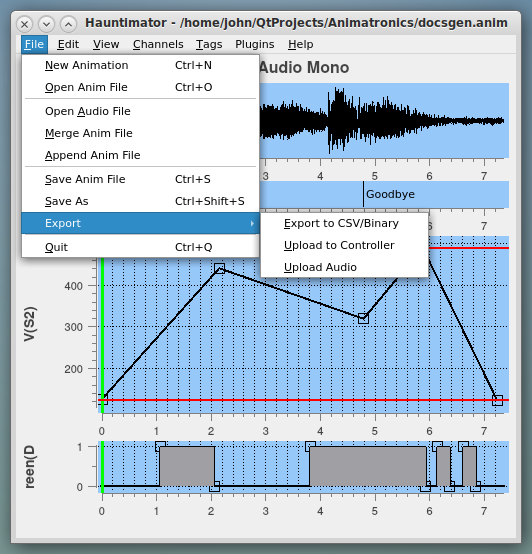
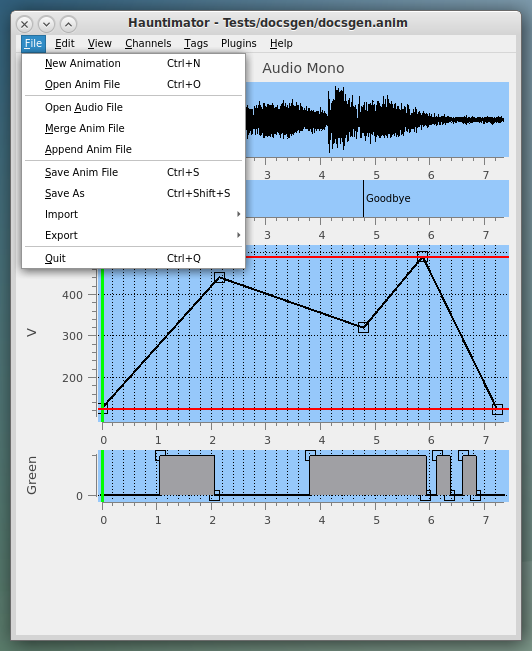
Added CSV import

diff --git a/MainWindow.py b/MainWindow.py
@@ -4056,6 +4056,117 @@ class MainWindow(QMainWindow):
                     # Nothing was done so clean up
                     self.undo_action()
 
+    def readCSVFile(self, filename):
+        if filename is None:
+            sys.stderr.write("\nWHOOPS - No CSV filename specified.\n")
+            print_usage(sys.argv[0]);
+            sys.exit(10);
+
+        with open(filename, 'r') as f:
+            # Create a new Animatronics object to populate
+            animation = Animatronics()
+
+            # Read the header line from the CSV file
+            line = f.readline()
+
+            # Split it at the commas (Could use pandas but no real need)
+            channelNames = line.split(',')
+
+            # Create an array for quick lookup later
+            channels = []
+            mins = []
+            maxes = []
+
+            # Create all the channels in the animatronics except time in column 0
+            for name in channelNames[1:]:
+                # We expect each name to be of the form Dn or Sn
+                # Dn indicates a Digital channel attached to port n
+                # Sn indicates a Servo or PWM channel attached to port n
+                # If the name does not match this form, the port is not set and the channel is assumed to be PWM
+                name = name.strip()
+                if name[0] == 'D':
+                    channel = Channel(inname=name, intype=Channel.DIGITAL)
+                else:
+                    channel = Channel(inname=name, intype=Channel.LINEAR)
+                animation.insertChannel(channel)
+                try:
+                    port = int(name[1:])
+                    channel.port = port
+                except:
+                    # Ignore error if the name is not of form Dn or Sn
+                    pass
+                # Save the channel in the dictionary
+                channels.append(channel)
+                mins.append(65535)
+                maxes.append(0)
+                if verbosity: print('Created a channel with name:', name)
+
+            # Now populate the channels with the data from the CSV file
+            if verbosity: print('Processing channel data')
+            line = f.readline()
+            while len(line) > 0:
+                values = line.split(',')
+                time = float(values[0]) / 1000.0    # Convert from msec to sec
+                values = values[1:]
+                for indx in range(len(values)):
+                    try:
+                        value = float(values[indx])
+                        # Conserve space by outputting only changes for Digital channels
+                        if channels[indx].num_knots() > 0 and channels[indx].type == Channel.DIGITAL:
+                            currvalue = channels[indx].getValueAtTime(time)
+                            if currvalue is None or currvalue != value:
+                                channels[indx].add_knot(time, value)
+                        else:
+                            channels[indx].add_knot(time, value)
+                        if value < mins[indx]: mins[indx] = value
+                        if value > maxes[indx]: maxes[indx] = value
+                    except:
+                        # Ignore failures to allow for empty columns
+                        pass
+                line = f.readline()
+                # Just in case this is the last line, set the end time
+                animation.end = time
+
+            # Set the channel limits to the min and max values found
+            for indx in range(len(values)):
+                if mins[indx] < maxes[indx]:
+                    channels[indx].minLimit = mins[indx]
+                    channels[indx].maxLimit = maxes[indx]
+
+            return animation
+
+
+    def importCSVFile(self):
+        """
+        The method eimportCSVFileopens a file dialog to query the user for
+        a filename and then opens the comma-separated values (CSV) file,
+        importing it as a new animation.  Column headers will be used as
+        the channel names and possibly the channel port numbers.
+        """
+        if self.handle_unsaved_changes():
+            """Get filename and open as active animatronics"""
+            fileName, _ = QFileDialog.getOpenFileName(self,"Get Open Filename", "",
+                                "Anim Files (*.csv);;All Files (*)",
+                                options=QFileDialog.DontUseNativeDialog)
+
+            if fileName:
+                # Push current state for undo
+                pushState()
+
+                try:
+                    newAnim = self.readCSVFile(fileName)
+                    self.setAnimatronics(newAnim)
+                    # Clear out Redo history
+                    self.pendingStates = []
+                    self.unsavedChanges = False
+
+                except Exception as e:
+                    self.undo_action()
+                    sys.stderr.write("\nWhoops - Error reading input file %s\n" % fileName)
+                    sys.stderr.write("Message: %s\n" % e)
+                    return
+
+
     def exportCSVFile(self):
         """
         The method exportCSVFile opens a file dialog to query the user for
@@ -6206,7 +6317,15 @@ class MainWindow(QMainWindow):
                 self, shortcut=QKeySequence.SaveAs, triggered=self.saveAsFile)
         self.file_menu.addAction(self._save_as_file_action)
 
-        # Export action
+        # Import Actions
+        self._import_file_menu = self.file_menu.addMenu("Import")
+        self._import_file_menu.setToolTipsVisible(SystemPreferences['ShowTips'])
+        self._import_csv_file_action = QAction("&Import from CSV",
+                self, triggered=self.importCSVFile)
+        self._import_csv_file_action.setToolTip('Import CSV file into New Animation')
+        self._import_file_menu.addAction(self._import_csv_file_action)
+
+        # Export actions
         self._export_file_menu = self.file_menu.addMenu("Export")
         self._export_file_menu.setToolTipsVisible(SystemPreferences['ShowTips'])
         self._export_csv_file_action = QAction("&Export to CSV/Binary",

diff --git a/docs/Help.md b/docs/Help.md
@@ -160,6 +160,7 @@ The File menu contains the following options:
 + Append Anim File - Open an existing animation and append common channels to current one
 + Save Anim File - Save the current animation to the file it was loaded from
 + Save As - Save the current animation under a new filename
++ Import - Import from an alternative file format
 + Export - Export to an alternative file format or send to controller
 + Quit - Duh!
 
@@ -178,6 +179,20 @@ Appended channels must appear in both animations and other channels will be igno
 a warning presented.  Note that the order of the append is irrelevant.  Prior, successor,
 or overlapping time ranges can be appended and they are inserted into the existing channel
 at their designated time.
+
+The Import menu allows users to import an animation from an alternative file format.  The
+only one currently supported is CSV.  If the user wrote a CSV file from Hauntimator, the
+channels and port numbers may be retrieved from the CSV file.  However, users may create CSV
+files through other programs and import those as well.  CSV files written by Hauntimator will
+have the first column be time in milliseconds.  Then all other columns represent channels.
+Hauntimator writes only the port identifier into the column header, which is of the form Dn
+or Sn for Digital channel on port n or Servo/PWM channel on port n respectively.  Upon import,
+any channel whose name begins with capital "D" will be assumed to be a digital channel and
+all others will be assumed to be PWM channels.  If python can successfully parse an integer 
+from the characters after the first one, then that will be assumed to be the port number.
+The entire column header will be used as the channel name.  Note that the CSV file never
+contains metadata such the name of the audio file so the user will have to define that
+after import.
 
 The Export option is generally used to upload the control file to the controller.
 To accomplish, the file is written as a CSV (comma-separated values) file and then
